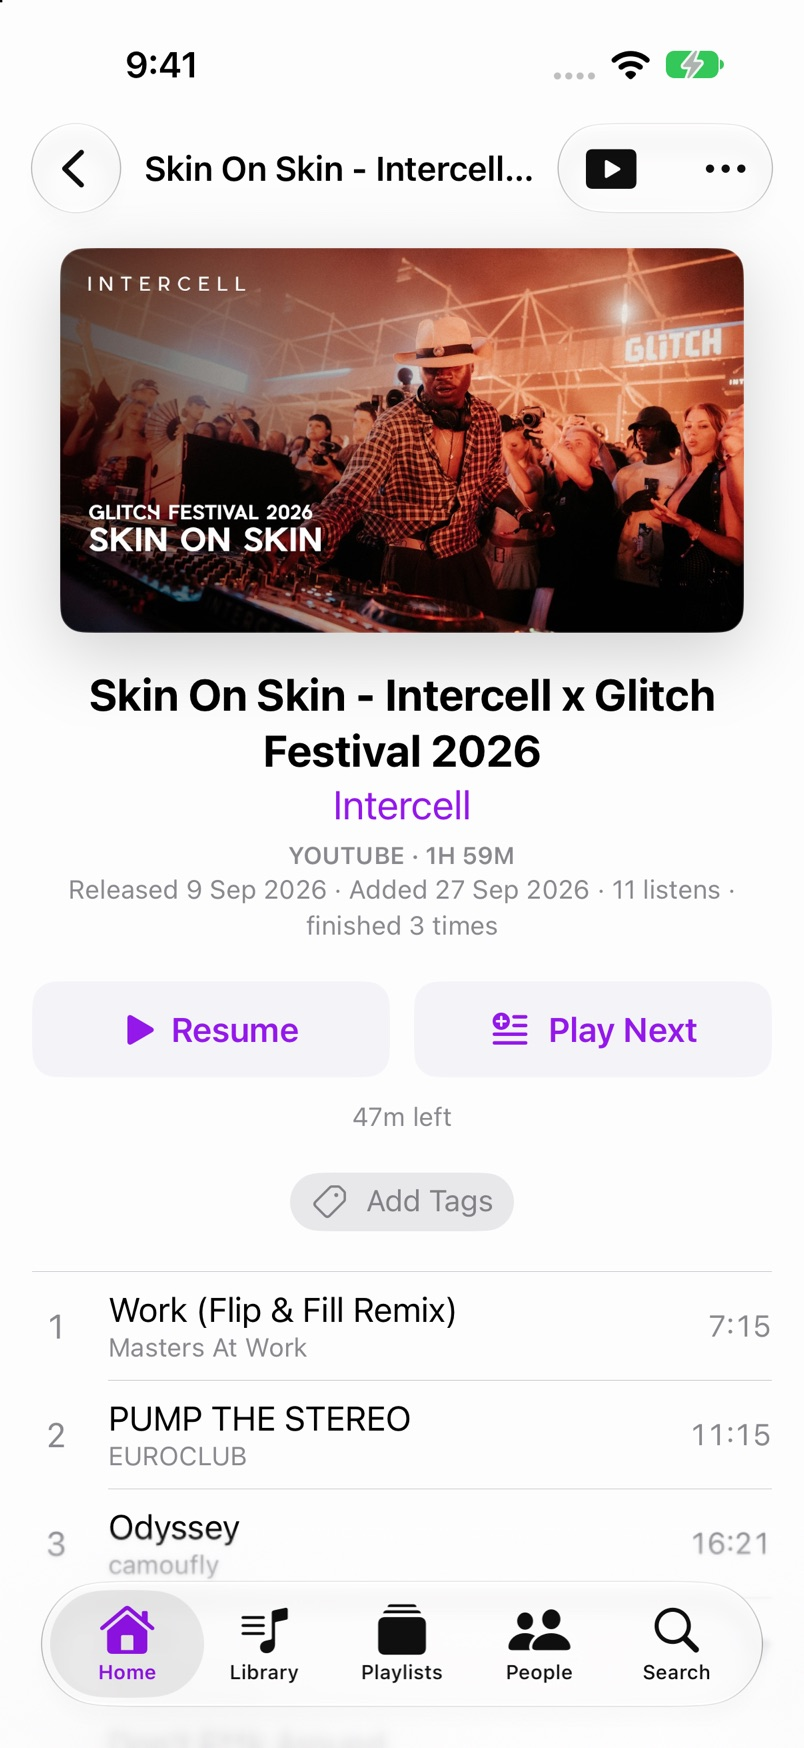
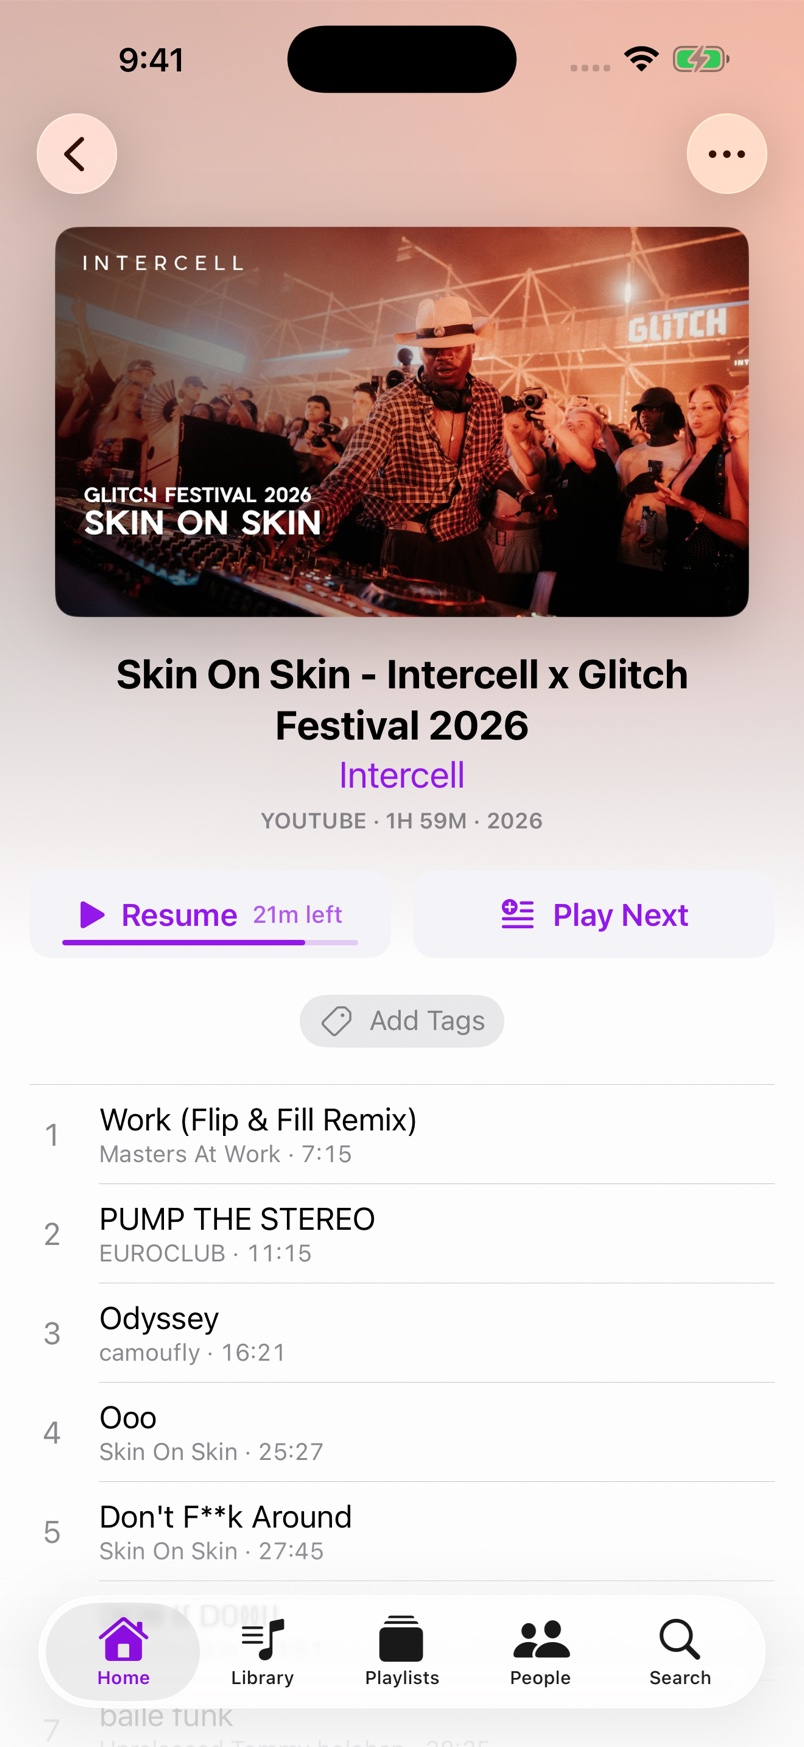
docs: show the polished Set page in the README

diff --git a/README.md b/README.md
@@ -13,7 +13,7 @@ A private library for long music: DJ sets and mixes from YouTube and SoundCloud.
 <p align="center">
   <img src="docs/images/home.jpg" alt="Orbis Home on iPhone: the Set in progress shown large with its artwork, a Resume button with the time left, tag chips, and a Continue listening rail" width="280">
   &nbsp;
-  <img src="docs/images/set.jpg" alt="A Set page on iPhone: artwork, title, artist, listen count, Resume and Play Next buttons, and the start of the tracklist" width="280">
+  <img src="docs/images/set.jpg" alt="A Set page on iPhone: artwork glowing behind the header, title, artist, a Resume button with the time left, Play Next, and the start of the tracklist" width="280">
 </p>
 
 Orbis is a personal project for a private Group of listeners. The API and library data live on Cloudflare; an audio node on Vanta retains and serves the audio. The source is public to read and to fork. It is not open source; see [License](#license).
